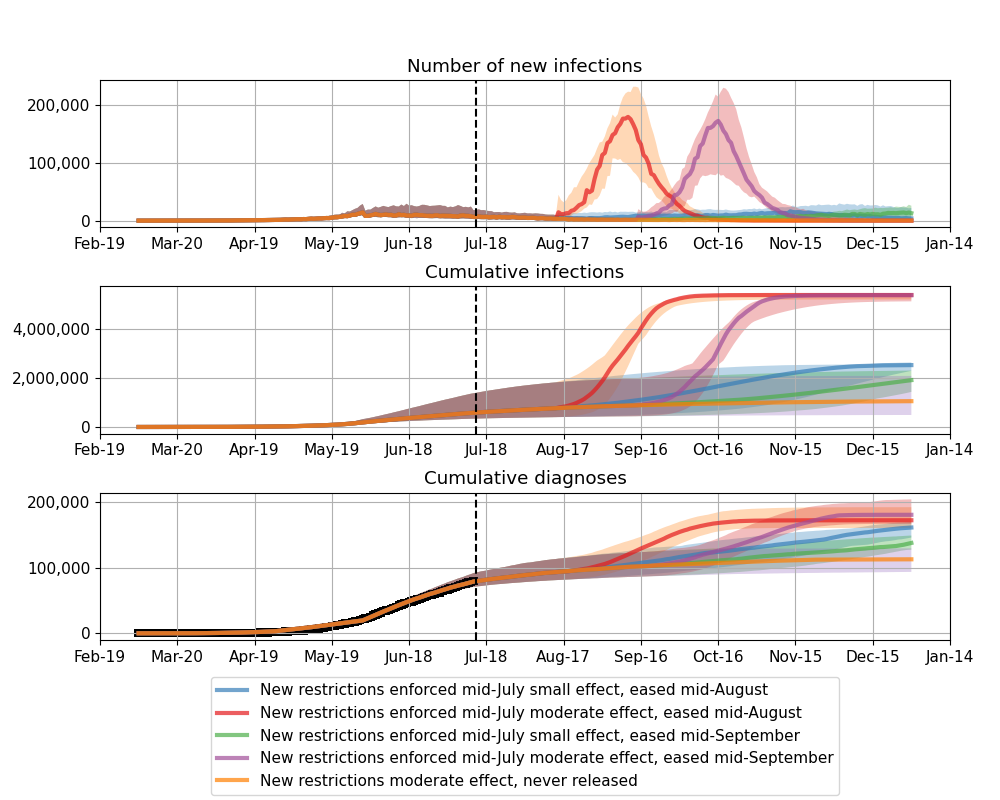
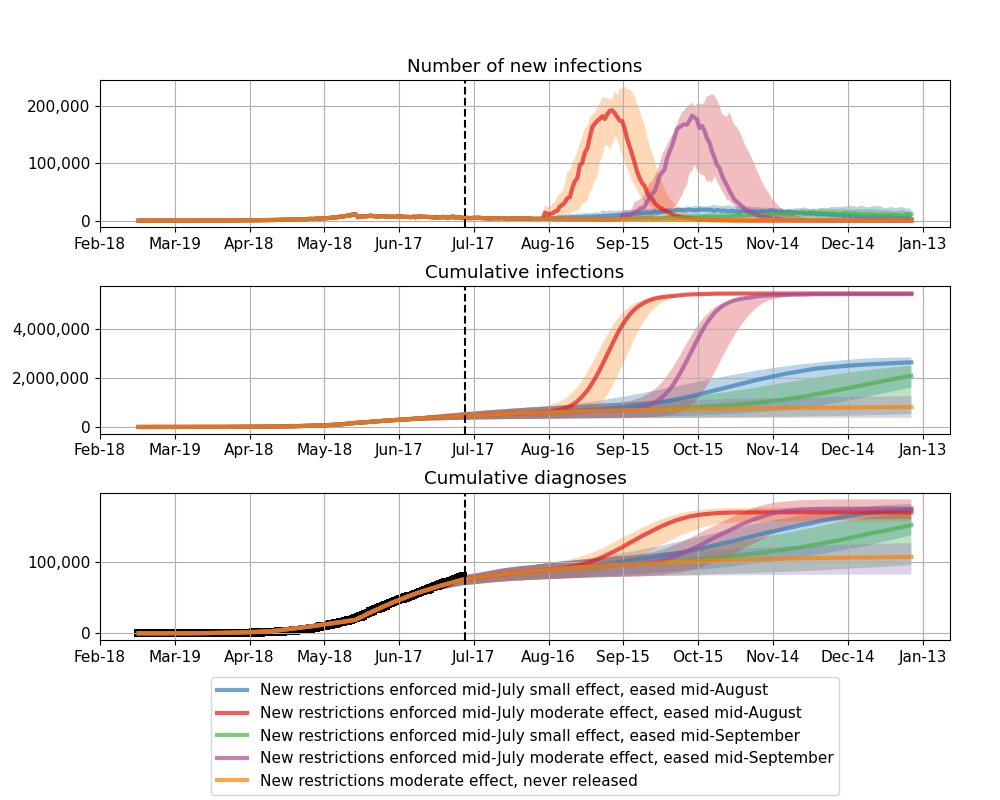
Update WC

diff --git a/applications/south_africa/WC_run.py b/applications/south_africa/WC_run.py
@@ -1,6 +1,8 @@
 import user_interface as ui
 import utils
 import os
+from datetime import date, timedelta
+import pandas as pd
 
 dirname = os.path.dirname(__file__)
 import xlsxwriter
@@ -19,9 +21,17 @@ if __name__ == "__main__":
     # country-BHecific parameters
     user_pars = {'WC': {'pop_size': int(10e4),
                         'beta': 0.095,
-                        'n_days': 300,
+                        'n_days': 310,
                         'pop_infected': 25,
                         'calibration_end': '2020-07-14'}}
+
+    mid_july = 132 # make this the key date
+    mid_aug = mid_july + 31
+    mid_sep = mid_aug + 31
+    end_oct = mid_sep + 46
+    mid_nov = end_oct + 15
+    end_dec = mid_nov + 46
+
 
     # the metapars for all countries and scenarios
     metapars = {'n_runs': 8,
@@ -32,23 +42,23 @@ if __name__ == "__main__":
     # the policies to change during scenario runs
     # scen_opts = {'BH': {'No changes to current lockdown restrictions':
     scen_opts = {'WC': {'New restrictions enforced mid-July small effect, eased mid-August':
-                            {'replace': (['lockdown_s3_v2'], [['relax1']], [[163]]),
+                            {'replace': (['lockdown_s3_v2'], [['relax1']], [[mid_aug]]),
                              'policies': {'relax1': {'beta': 0.3}}},
 
                         'New restrictions enforced mid-July moderate effect, eased mid-August':
-                            {'replace': (['lockdown_s3_v2'], [['relax2']], [[163]]),
+                            {'replace': (['lockdown_s3_v2'], [['relax2']], [[mid_aug]]),
                              'policies': {'relax2': {'beta': 0.4}}},
 
                         'New restrictions enforced mid-July small effect, eased mid-September':
-                            {'replace': (['lockdown_s3_v2'], [['relax1']], [[194]]),
+                            {'replace': (['lockdown_s3_v2'], [['relax1']], [[mid_sep]]),
                              'policies': {'relax1': {'beta': 0.3}}},
 
                         'New restrictions enforced mid-July moderate effect, eased mid-September':
-                            {'replace': (['lockdown_s3_v2'], [['relax2']], [[194]]),
+                            {'replace': (['lockdown_s3_v2'], [['relax2']], [[mid_sep]]),
                              'policies': {'relax2': {'beta': 0.4}}},
 
                         'New restrictions moderate effect, never released':
-                            {'replace': (['lockdown4'], [['lockdown4']], [[300]]),
+                            {'replace': (['lockdown4'], [['lockdown4']], [[310]]),
                              'policies': {'lockdown4': {'beta': 0.2}}}}}
 
     # set up the scenarios
@@ -86,93 +96,93 @@ if __name__ == "__main__":
     new_inf_LB_sep_oct = sum(
         scens['scenarios'][locations[0]].results['new_infections']['New restrictions moderate effect, never released'][
             'best'][
-        194:240])
+        mid_sep:end_oct])
     new_diag_LB_sep_oct = sum(
         scens['scenarios'][locations[0]].results['new_diagnoses']['New restrictions moderate effect, never released'][
             'best'][
-        194:240])
+        mid_sep:end_oct])
     cum_inf_LB_sep_oct = \
         scens['scenarios'][locations[0]].results['cum_infections']['New restrictions moderate effect, never released'][
-            'best'][240]
-    incidence_LB_sep_oct = 100 * new_inf_LB_sep_oct * 30 / (240 - 194) / population
-    detected_LB_sep_oct = 100 * new_diag_LB_sep_oct * 30 / (240 - 194) / population
+            'best'][end_oct]
+    incidence_LB_sep_oct = 100 * new_inf_LB_sep_oct * 30 / (end_oct - mid_sep) / population
+    detected_LB_sep_oct = 100 * new_diag_LB_sep_oct * 30 / (end_oct - mid_sep) / population
     seroprev_LB_sep_oct = cum_inf_LB_sep_oct / population
 
     new_inf_LB_nov_dec = sum(
         scens['scenarios'][locations[0]].results['new_infections']['New restrictions moderate effect, never released'][
             'best'][
-        241:285])
+        mid_nov:end_dec])
     new_diag_LB_nov_dec = sum(
         scens['scenarios'][locations[0]].results['new_diagnoses']['New restrictions moderate effect, never released'][
             'best'][
-        241:285])
+        mid_nov:end_dec])
     cum_inf_LB_nov_dec = \
         scens['scenarios'][locations[0]].results['cum_infections']['New restrictions moderate effect, never released'][
-            'best'][285]
-    incidence_LB_nov_dec = 100 * new_inf_LB_nov_dec * 30 / (285 - 241) / population
-    detected_LB_nov_dec = 100 * new_diag_LB_nov_dec * 30 / (285 - 241) / population
+            'best'][end_dec]
+    incidence_LB_nov_dec = 100 * new_inf_LB_nov_dec * 30 / (end_dec - mid_nov) / population
+    detected_LB_nov_dec = 100 * new_diag_LB_nov_dec * 30 / (end_dec - mid_nov) / population
     seroprev_LB_nov_dec = cum_inf_LB_nov_dec / population
 
     # Mid Bound: small change mid- July
     new_inf_MB_sep_oct = sum(
         scens['scenarios'][locations[0]].results['new_infections'][
             'New restrictions enforced mid-July moderate effect, eased mid-August']['best'][
-        194:240])
+        mid_sep:end_oct])
     new_diag_MB_sep_oct = sum(
         scens['scenarios'][locations[0]].results['new_diagnoses'][
             'New restrictions enforced mid-July moderate effect, eased mid-August']['best'][
-        194:240])
+        mid_sep:end_oct])
     cum_inf_MB_sep_oct = \
         scens['scenarios'][locations[0]].results['cum_infections'][
-            'New restrictions enforced mid-July moderate effect, eased mid-August']['best'][240]
-    incidence_MB_sep_oct = 100 * new_inf_MB_sep_oct * 30 / (240 - 194) / population
-    detected_MB_sep_oct = 100 * new_diag_MB_sep_oct * 30 / (240 - 194) / population
+            'New restrictions enforced mid-July moderate effect, eased mid-August']['best'][end_oct]
+    incidence_MB_sep_oct = 100 * new_inf_MB_sep_oct * 30 / (end_oct - mid_sep) / population
+    detected_MB_sep_oct = 100 * new_diag_MB_sep_oct * 30 / (end_oct - mid_sep) / population
     seroprev_MB_sep_oct = cum_inf_MB_sep_oct / population
 
     new_inf_MB_nov_dec = sum(
         scens['scenarios'][locations[0]].results['new_infections'][
             'New restrictions enforced mid-July moderate effect, eased mid-August']['best'][
-        241:285])
+        mid_nov:end_dec])
     new_diag_MB_nov_dec = sum(
         scens['scenarios'][locations[0]].results['new_diagnoses'][
             'New restrictions enforced mid-July moderate effect, eased mid-August']['best'][
-        241:285])
+        mid_nov:end_dec])
     cum_inf_MB_nov_dec = \
         scens['scenarios'][locations[0]].results['cum_infections'][
-            'New restrictions enforced mid-July moderate effect, eased mid-August']['best'][285]
-    incidence_MB_nov_dec = 100 * new_inf_MB_nov_dec * 30 / (285 - 241) / population
-    detected_MB_nov_dec = 100 * new_diag_MB_nov_dec * 30 / (285 - 241) / population
+            'New restrictions enforced mid-July moderate effect, eased mid-August']['best'][end_dec]
+    incidence_MB_nov_dec = 100 * new_inf_MB_nov_dec * 30 / (end_dec - mid_nov) / population
+    detected_MB_nov_dec = 100 * new_diag_MB_nov_dec * 30 / (end_dec - mid_nov) / population
     seroprev_MB_nov_dec = cum_inf_MB_nov_dec / population
 
     # Upper Bound: moderate change mid-August
     new_inf_UB_sep_oct = sum(
         scens['scenarios'][locations[0]].results['new_infections'][
             'New restrictions enforced mid-July small effect, eased mid-August']['best'][
-        194:240])
+        mid_sep:end_oct])
     new_diag_UB_sep_oct = sum(
         scens['scenarios'][locations[0]].results['new_diagnoses'][
             'New restrictions enforced mid-July small effect, eased mid-August']['best'][
-        194:240])
+        mid_sep:end_oct])
     cum_inf_UB_sep_oct = \
         scens['scenarios'][locations[0]].results['cum_infections'][
-            'New restrictions enforced mid-July small effect, eased mid-August']['best'][240]
-    incidence_UB_sep_oct = 100 * new_inf_UB_sep_oct * 30 / (240 - 194) / population
-    detected_UB_sep_oct = 100 * new_diag_UB_sep_oct * 30 / (240 - 194) / population
+            'New restrictions enforced mid-July small effect, eased mid-August']['best'][end_oct]
+    incidence_UB_sep_oct = 100 * new_inf_UB_sep_oct * 30 / (end_oct - mid_sep) / population
+    detected_UB_sep_oct = 100 * new_diag_UB_sep_oct * 30 / (end_oct - mid_sep) / population
     seroprev_UB_sep_oct = cum_inf_UB_sep_oct / population
 
     new_inf_UB_nov_dec = sum(
         scens['scenarios'][locations[0]].results['new_infections'][
             'New restrictions enforced mid-July small effect, eased mid-August']['best'][
-        241:285])
+        mid_nov:end_dec])
     new_diag_UB_nov_dec = sum(
         scens['scenarios'][locations[0]].results['new_diagnoses'][
             'New restrictions enforced mid-July small effect, eased mid-August']['best'][
-        241:285])
+        mid_nov:end_dec])
     cum_inf_UB_nov_dec = \
         scens['scenarios'][locations[0]].results['cum_infections'][
-            'New restrictions enforced mid-July small effect, eased mid-August']['best'][285]
-    incidence_UB_nov_dec = 100 * new_inf_UB_nov_dec * 30 / (285 - 241) / population
-    detected_UB_nov_dec = 100 * new_diag_UB_nov_dec * 30 / (285 - 241) / population
+            'New restrictions enforced mid-July small effect, eased mid-August']['best'][end_dec]
+    incidence_UB_nov_dec = 100 * new_inf_UB_nov_dec * 30 / (end_dec - mid_nov) / population
+    detected_UB_nov_dec = 100 * new_diag_UB_nov_dec * 30 / (end_dec - mid_nov) / population
     seroprev_UB_nov_dec = cum_inf_UB_nov_dec / population
 
     projections = [
@@ -195,4 +205,76 @@ if __name__ == "__main__":
     ]
 
     worksheet.add_table('A1:X4', {'data': projections})
+    worksheet2 = workbook.add_worksheet('Daily projections')
+    sdate = date(2020, 7, 15)  # start date
+    edate = date(2020, 12, 31)  # end date
+
+    daily_inf_small_aug = scens['scenarios'][locations[0]].results['new_infections'][
+                              'New restrictions enforced mid-July small effect, eased mid-August'] \
+                              ['best'][mid_july:end_dec]
+    daily_death_small_aug = scens['scenarios'][locations[0]].results['new_deaths'][
+                                'New restrictions enforced mid-July small effect, eased mid-August'] \
+                                ['best'][mid_july:end_dec]
+    daily_diag_small_aug = scens['scenarios'][locations[0]].results['new_diagnoses'][
+                               'New restrictions enforced mid-July small effect, eased mid-August'] \
+                               ['best'][mid_july:end_dec]
+
+    daily_inf_mod_aug = scens['scenarios'][locations[0]].results['new_infections'][
+                            'New restrictions enforced mid-July moderate effect, eased mid-August'] \
+                            ['best'][mid_july:end_dec]
+    daily_death_mod_aug = scens['scenarios'][locations[0]].results['new_deaths'][
+                              'New restrictions enforced mid-July moderate effect, eased mid-August'] \
+                              ['best'][mid_july:end_dec]
+    daily_diag_mod_aug = scens['scenarios'][locations[0]].results['new_diagnoses'][
+                             'New restrictions enforced mid-July moderate effect, eased mid-August'] \
+                             ['best'][mid_july:end_dec]
+
+    daily_inf_small_sep = scens['scenarios'][locations[0]].results['new_infections'][
+                              'New restrictions enforced mid-July small effect, eased mid-September'] \
+                              ['best'][mid_july:end_dec]
+    daily_death_small_sep = scens['scenarios'][locations[0]].results['new_deaths'][
+                                'New restrictions enforced mid-July small effect, eased mid-September'] \
+                                ['best'][mid_july:end_dec]
+    daily_diag_small_sep = scens['scenarios'][locations[0]].results['new_diagnoses'][
+                               'New restrictions enforced mid-July small effect, eased mid-September'] \
+                               ['best'][mid_july:end_dec]
+
+    daily_inf_mod_sep = scens['scenarios'][locations[0]].results['new_infections'][
+                            'New restrictions enforced mid-July moderate effect, eased mid-September'] \
+                            ['best'][mid_july:end_dec]
+    daily_death_mod_sep = scens['scenarios'][locations[0]].results['new_deaths'][
+                              'New restrictions enforced mid-July moderate effect, eased mid-September'] \
+                              ['best'][mid_july:end_dec]
+    daily_diag_mod_sep = scens['scenarios'][locations[0]].results['new_diagnoses'][
+                             'New restrictions enforced mid-July moderate effect, eased mid-September'] \
+                             ['best'][mid_july:end_dec]
+
+    daily_inf_no_release = \
+    scens['scenarios'][locations[0]].results['new_infections']['New restrictions moderate effect, never released'] \
+        ['best'][mid_july:end_dec]
+    daily_death_no_release = \
+    scens['scenarios'][locations[0]].results['new_deaths']['New restrictions moderate effect, never released'] \
+        ['best'][mid_july:end_dec]
+    daily_diag_no_release = \
+    scens['scenarios'][locations[0]].results['new_diagnoses']['New restrictions moderate effect, never released'] \
+        ['best'][mid_july:end_dec]
+
+    daily_projections = [
+        ['Dates'] + [str(d) for d in pd.date_range(sdate, edate - timedelta(days=1), freq='d')],
+        ['New infections small release Aug'] + [int(val) for val in daily_inf_small_aug],
+        ['New infections moderate release Aug'] + [int(val) for val in daily_inf_mod_aug],
+        ['New infections small release Sep'] + [int(val) for val in daily_inf_small_sep],
+        ['New infections moderate release Sep'] + [int(val) for val in daily_inf_mod_sep],
+        ['New infections no release'] + [int(val) for val in daily_inf_no_release],
+        ['New deaths small release Aug'] + [int(val) for val in daily_death_small_aug],
+        ['New deaths moderate release Aug'] + [int(val) for val in daily_death_mod_aug],
+        ['New deaths small release Sep'] + [int(val) for val in daily_death_small_sep],
+        ['New deaths moderate release Sep'] + [int(val) for val in daily_death_mod_sep],
+        ['New deaths no release'] + [int(val) for val in daily_death_no_release],
+        ['New diagnoses small release Aug'] + [int(val) for val in daily_diag_small_aug],
+        ['New diagnoses moderate release Aug'] + [int(val) for val in daily_diag_mod_aug],
+        ['New diagnoses small release Sep'] + [int(val) for val in daily_diag_small_sep],
+        ['New diagnoses moderate release Sep'] + [int(val) for val in daily_diag_mod_sep],
+        ['New diagnoses no release'] + [int(val) for val in daily_diag_no_release]]
+    worksheet2.add_table('A1:FO17', {'data': daily_projections})
     workbook.close()
